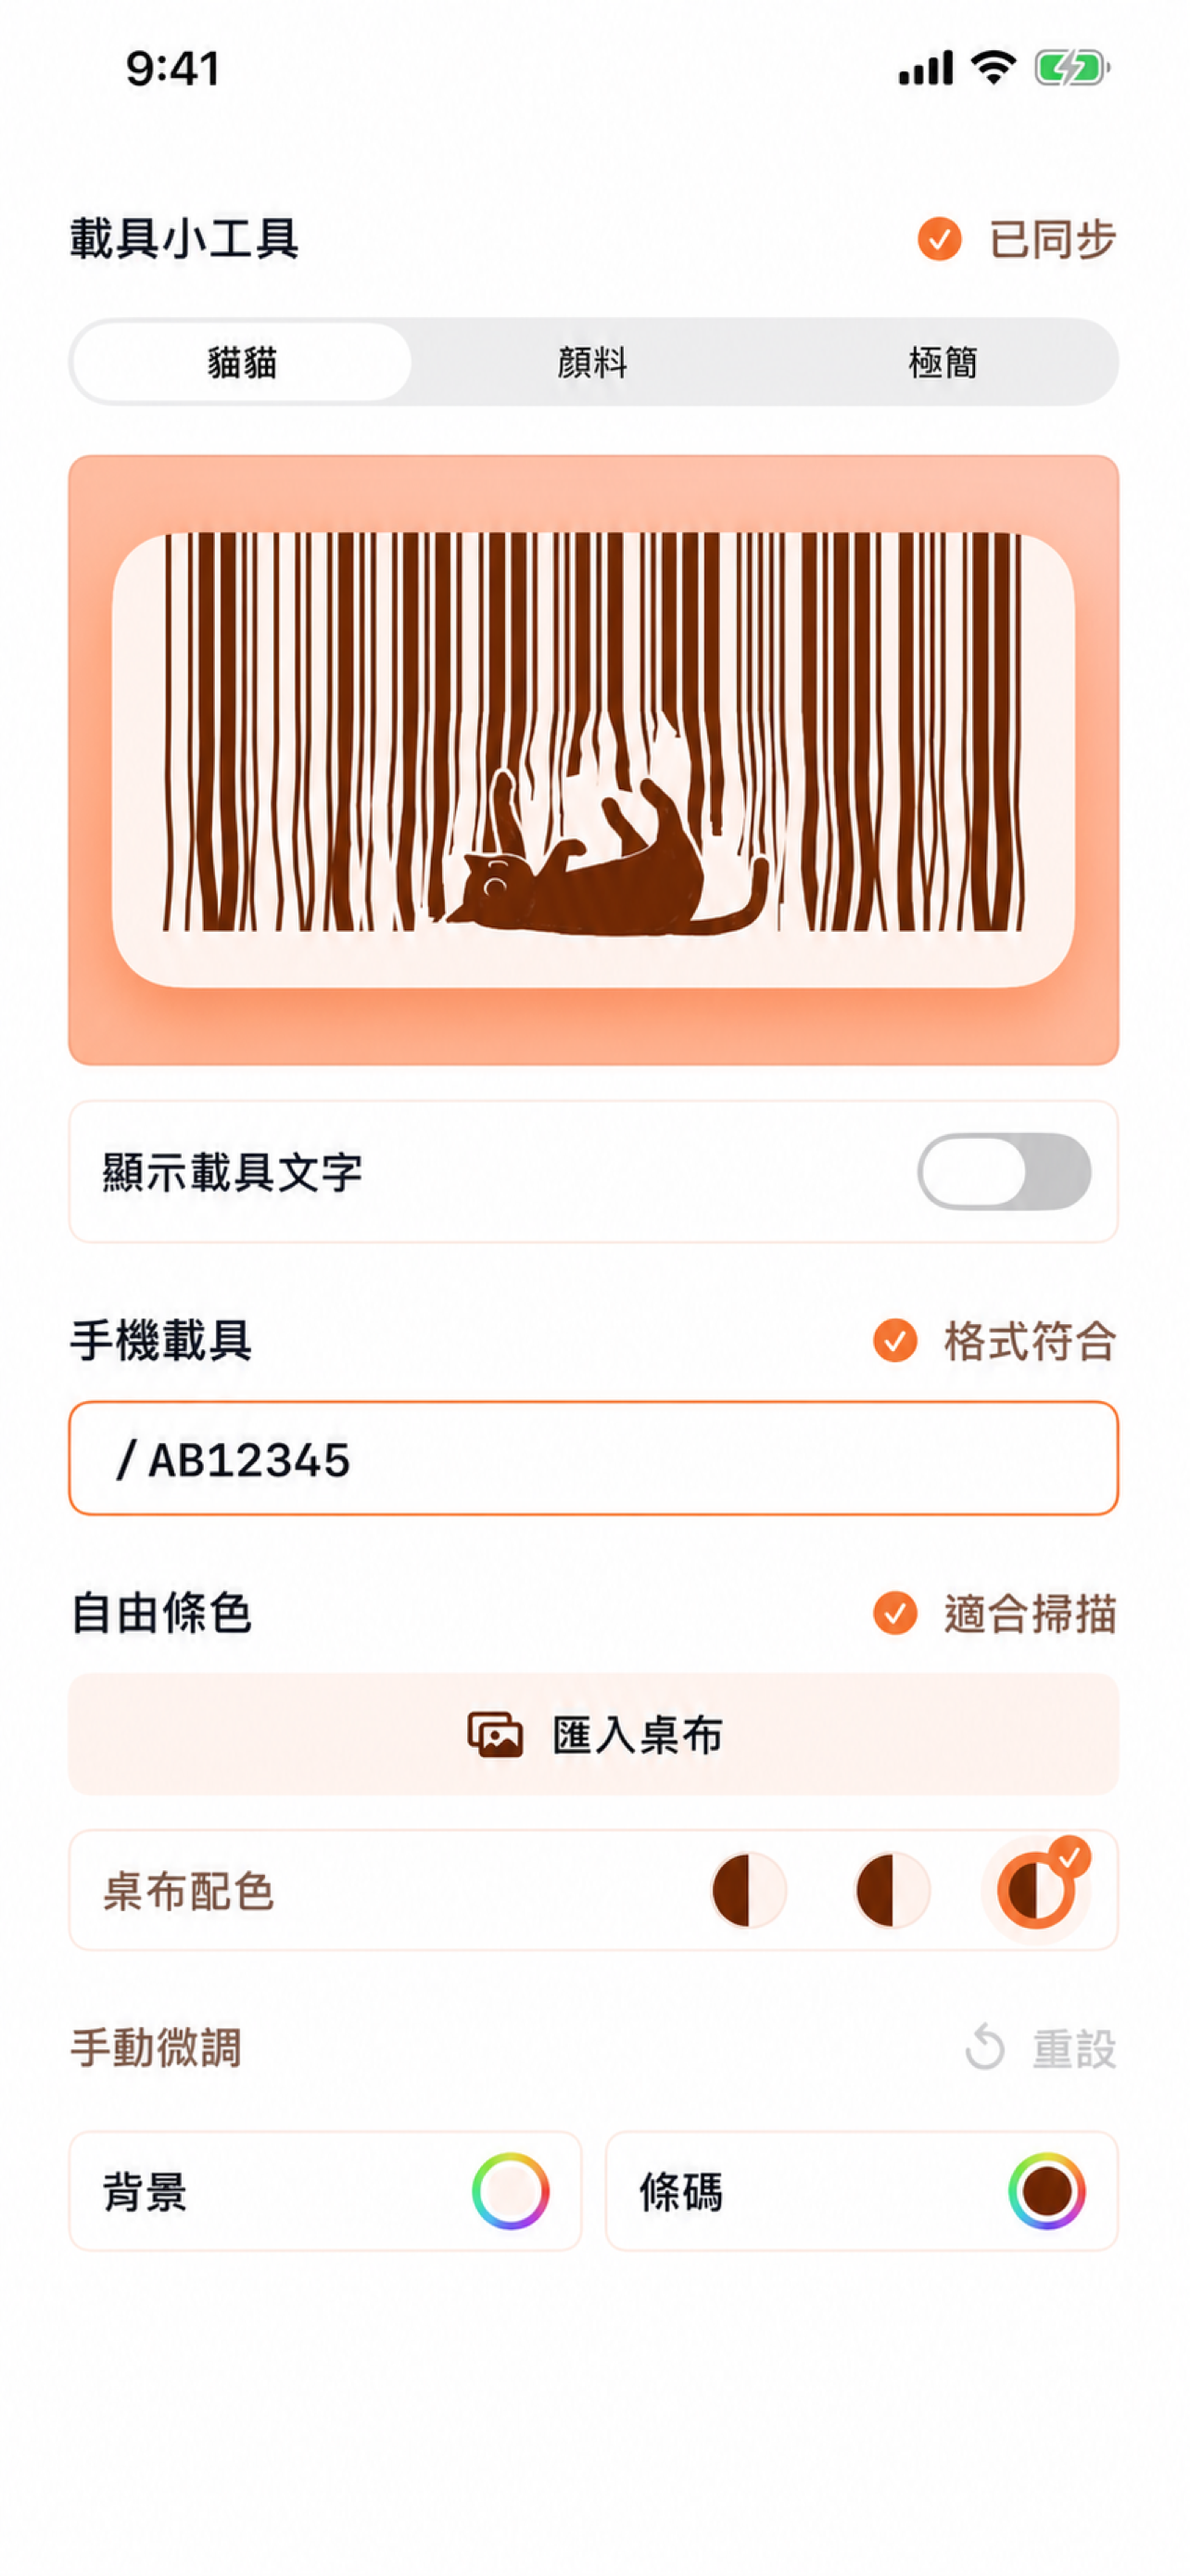
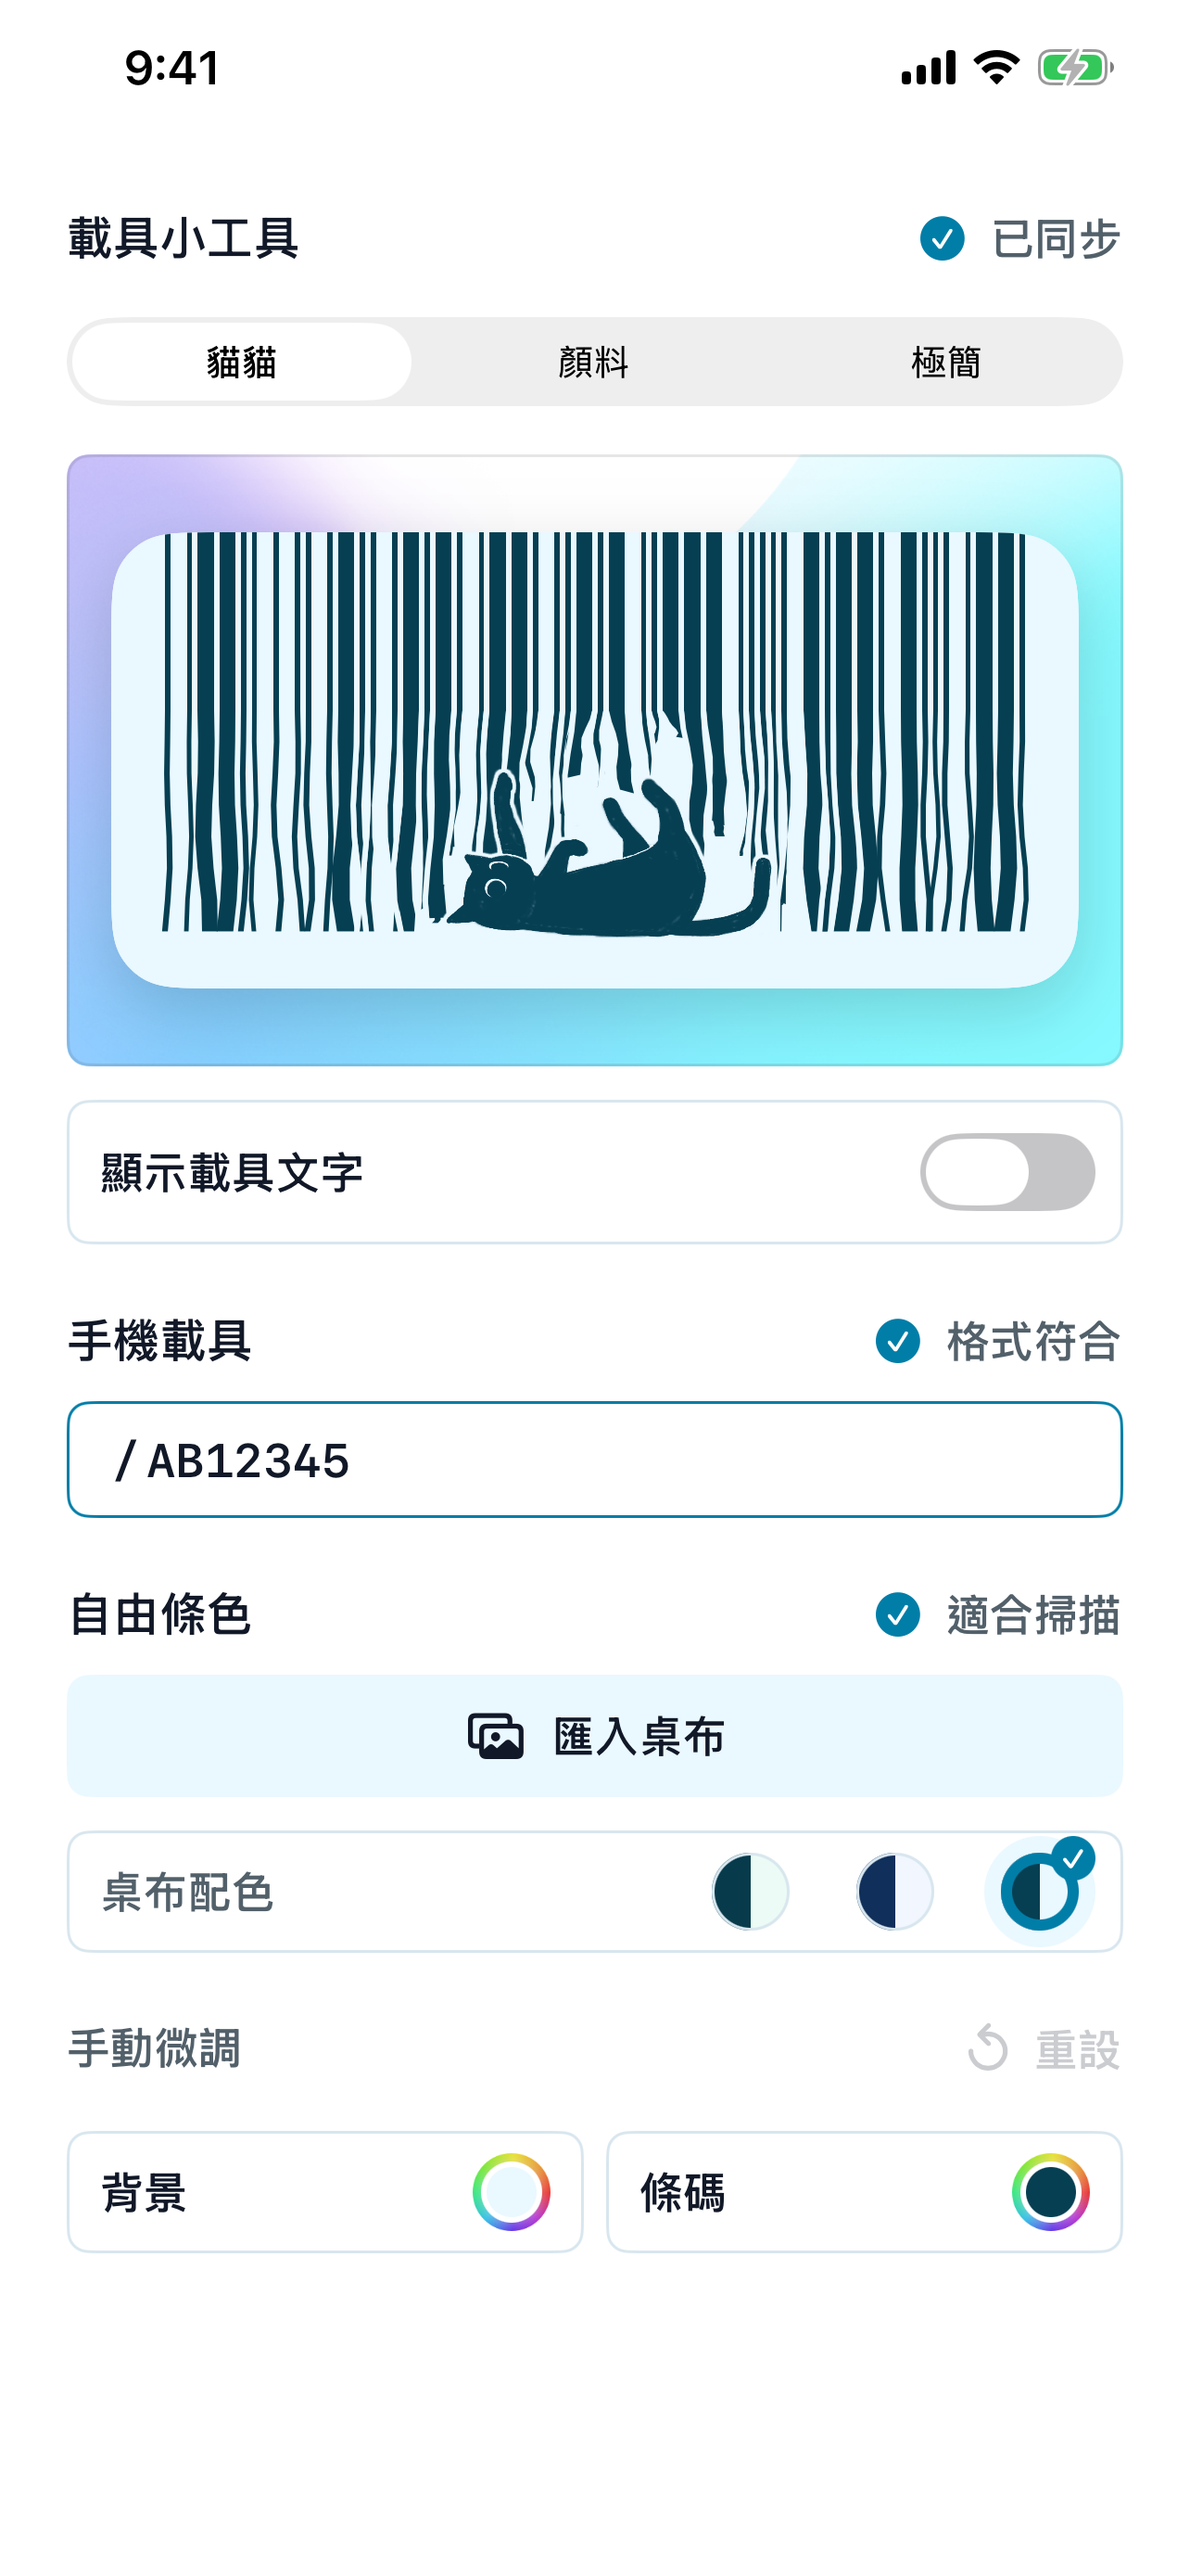
feat(web): restore iOS blue theme

diff --git a/apps/web/src/constants/color.css b/apps/web/src/constants/color.css
@@ -1,18 +1,18 @@
 :root {
     accent-color: var(--clr-accent);
 
-    --clr-bg: #fffaf8;
-    --clr-bg-accent: #fff0ea;
+    --clr-bg: #f8fcff;
+    --clr-bg-accent: #e8f8fc;
     --clr-surface: #ffffff;
-    --clr-surface-elevated: #fff7f3;
-    --clr-text: #261b17;
-    --clr-text-muted: #6f5c54;
-    --clr-border: #eadbd5;
-    --clr-accent: #ff9770;
-    --clr-accent-strong: #9a4128;
-    --clr-accent-soft: #ffe4d9;
+    --clr-surface-elevated: #f1fbfe;
+    --clr-text: #10202b;
+    --clr-text-muted: #536775;
+    --clr-border: #d5e7ee;
+    --clr-accent: #007ea8;
+    --clr-accent-strong: #005f80;
+    --clr-accent-soft: #d7f3fb;
     --clr-success: #27795f;
     --clr-image-outline: rgba(0, 0, 0, 0.1);
-    --shadow-surface: 0 24px 48px rgba(38, 27, 23, 0.08);
-    --shadow-widget: 0 32px 64px rgba(38, 27, 23, 0.16);
+    --shadow-surface: 0 24px 48px rgba(16, 32, 43, 0.08);
+    --shadow-widget: 0 32px 64px rgba(16, 32, 43, 0.16);
 }

diff --git a/apps/web/src/app/global.css b/apps/web/src/app/global.css
@@ -39,7 +39,7 @@ img {
 }
 
 :focus-visible {
-    outline: var(--size-outline) solid var(--clr-accent-strong);
+    outline: var(--size-outline) solid var(--clr-accent);
     outline-offset: var(--space-4);
 }
 
@@ -92,7 +92,7 @@ img {
     align-items: center;
     padding-inline: var(--space-20);
     border-radius: var(--radius-8);
-    color: var(--clr-text);
+    color: var(--clr-surface);
     font: var(--font-body-md);
     text-decoration: none;
     background: var(--clr-accent);

diff --git a/design-qa.md b/design-qa.md
@@ -151,6 +151,10 @@ steps collapse into the intended reading order below the editor image.
     and updates the Traditional Chinese title to
     「為你的載具挑選完美配色（或是貓貓）」. The localized phrase 「完美配色」
     is kept together at every width.
+13. The orange landing-page experiment was rolled back in favor of the iOS
+    app's actual `ColorInvoTheme.primary` value, `#007EA8`. The original cool
+    surfaces, blue interaction states, blue widget showcase captures, and
+    original blue product screenshot are again used consistently.
 
 ## Open Questions
 
